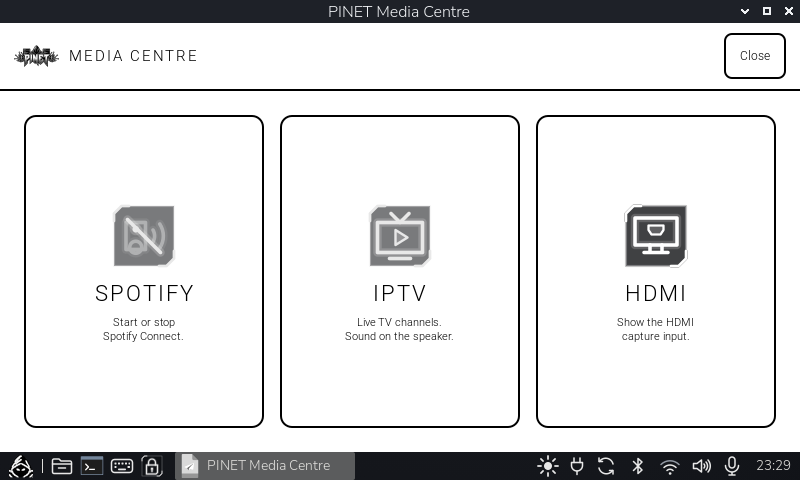
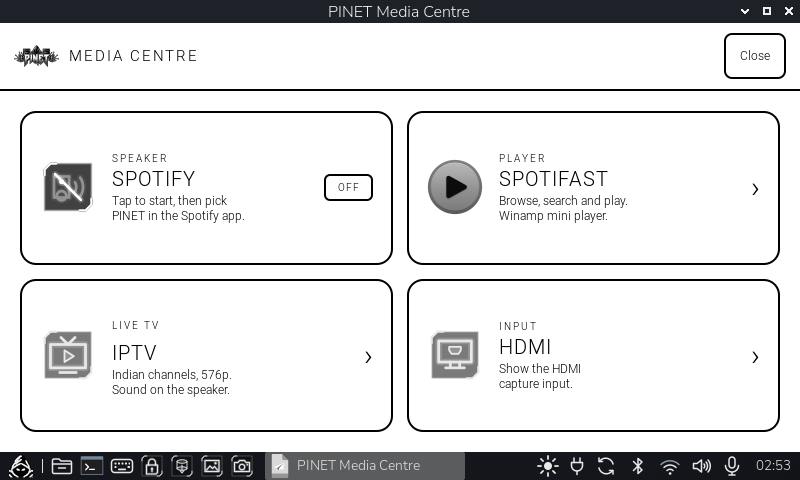
README: PINET Browser and Media Centre updates with screenshots
- Media Centre: four modes (Spotify Connect, Spotifast, IPTV, HDMI) in
  the 2x2 card chooser, plus Winamp Player for local audio.
- New PINET Browser section: touch controls, edge scrollbar, find,
  bookmarks, downloads, privacy, memory, and build.sh --deploy.
- Screenshots: new Media Centre chooser, Spotifast setup, Winamp Player,
  browser page/find/download/start page (no personal content).
- Feature table, repository layout, and test count (354) updated.

diff --git a/README.md b/README.md
@@ -12,7 +12,7 @@
 [![Platform](https://img.shields.io/badge/Platform-Raspberry%20Pi%203B-c51a4a.svg?style=flat-square)](https://www.raspberrypi.com/)
 [![OS](https://img.shields.io/badge/OS-Debian%2013%20trixie%20(64--bit)-a80030.svg?style=flat-square)](https://www.debian.org/)
 [![Python](https://img.shields.io/badge/Python-3.11+-3776ab.svg?style=flat-square)](https://www.python.org/)
-[![Tests](https://img.shields.io/badge/Tests-301%20passing-brightgreen.svg?style=flat-square)](tests/)
+[![Tests](https://img.shields.io/badge/Tests-354%20passing-brightgreen.svg?style=flat-square)](tests/)
 [![Displays](https://img.shields.io/badge/Displays-7%22%20DSI%20%2B%202.13%22%20e--Paper-blueviolet.svg?style=flat-square)](#hardware-architecture)
 [![Compositor](https://img.shields.io/badge/Compositor-labwc%20(Wayland)-informational.svg?style=flat-square)](#subsystems)
 [![Battery](https://img.shields.io/badge/Battery-8400%20mAh%20(2%C3%9721700)-f59e0b.svg?style=flat-square)](#power-management-and-battery-guard)
@@ -63,7 +63,8 @@ design write-up, see [`docs/Device Overview.md`](docs/Device%20Overview.md).
 | **Dual Displays** | 7" DSI Touchscreen (800×480) + 2.13" e-Paper (250×122) | Front GUI for desktop, kiosks & video; always-on rear panel for system telemetry & join QR. |
 | **Storage & Security** | LUKS2 (`aes-xts-plain64` 512-bit), Argon2id, GTK Layer-Shell | Boot PIN unlock pad (`pinet-luks-unlock`) with systemd `Type=notify`; seamless crossfade directly to photo frame. |
 | **Offline Hotspot** | Broadcom `wlan0` (`10.10.10.1`), hostapd, dnsmasq | Air-gapped Wi-Fi network triggering captive portal into `pinet-board` (message board + 1 GB file drop). |
-| **Media Centre** | Raspotify, VLC, UVC Video (`ffmpeg`/`ffplay`), PipeWire | Spotify Connect (Bluetooth @ 150% boost), live 576p Indian IPTV streams, and low-latency HDMI field monitor. |
+| **Media Centre** | Raspotify, Spotifast, Audacious, VLC, UVC Video (`ffmpeg`/`ffplay`), PipeWire | Spotify Connect (Bluetooth @ 150% boost), Spotifast player, Winamp-style local audio, live 576p Indian IPTV, and low-latency HDMI field monitor. |
+| **PINET Browser** | Rust, GTK3, WebKitGTK 4.1 | Default touch browser: slim always-visible scrollbar, find, bookmarks, download notices, on-screen keyboard; ~184 MB on a heavy page. |
 | **Wi-Fi Auditing** | `nmap`, `aircrack-ng`, `wifite`, `reaver`, `mdk4`, Vte terminal | Touch grid with embedded terminal pane; pentest mode flips `wlan1` to monitor mode & alerts e-ink. |
 | **Ethernet Share** | `eth0` (`10.42.0.1/24`), dnsmasq DHCP, nftables NAT | Routes `wlan1` internet uplink out through Ethernet with optional Pi-hole ad-blocking DNS. |
 | **Power & Battery** | Waveshare UPS HAT (D), INA219 (I²C `0x43`), 8400 mAh | Real-time voltage/current monitoring, calibrated OCV math, auto-shutdown guard, and load shedding. |
@@ -402,14 +403,26 @@ An official Raspberry Pi 7" capacitive touchscreen (800×480) driven by `labwc`
 <summary><b>Click to expand architecture & operational details</b></summary>
 <br />
 
-A unified touch interface (`media-centre`) providing three dedicated entertainment
-modes behind one desktop launcher:
+A unified touch interface (`media-centre`) providing four entertainment modes behind
+one desktop launcher, shown as a 2×2 grid of wide cards in the black-on-white PINET
+theme (the Spotify card carries a live ON/OFF pill):
 
 - **Spotify Connect**: Runs `raspotify` as a background receiver. Sound routes to
   connected Bluetooth speakers via PipeWire. If no speaker is currently connected,
   it attempts reconnection with paired devices (prioritizing the last-used speaker).
   Forces speaker volume to 150% so the source phone's volume slider controls the
   full audible range.
+- **Spotifast Player**: [Spotifast](https://github.com/crmne/spotifast), a native
+  Rust Spotify client (~100 MB RAM, OpenGL ES 2.0 on the Pi's VC4) with library,
+  search and a Winamp-style mini player. The card connects a Bluetooth speaker first,
+  then opens it. Install or update with `sudo pinet-install-spotifast` (latest
+  aarch64 release, verified against the release checksums). Needs Spotify Premium and
+  your own Spotify developer app Client ID; its taskbar and tray icon follow the PINET
+  panel style.
+- **Winamp Player (local audio)**: Every local audio type (110 MIME types and aliases)
+  opens in Audacious with its *Winamp Classic* interface at double size. A
+  `~/.local/bin/audacious` wrapper runs it through XWayland, which both the skin and
+  Audacious's GTK UI need under labwc.
 - **IPTV Player**: Plays live Indian broadcast streams in English, Bengali, and
   Hindi from `iptv-org`. Automatically filters playlists to 576p streams (avoiding
   Pi 3B hardware decoding bottlenecks) and pre-probes stream endpoints when the list
@@ -419,6 +432,41 @@ modes behind one desktop launcher:
   MacroSilicon MS2109) to convert the touchscreen into an external HDMI field monitor
   for laptops or cameras. Streams video through low-latency `ffmpeg` and `ffplay`
   pipelines with automatic recovery if the USB bus resets.
+
+</details>
+
+### PINET Browser
+
+<details>
+<summary><b>Click to expand architecture & operational details</b></summary>
+<br />
+
+`pinet-browser` is the device's default web browser (links, `xdg-open`, HTML files): a
+small Rust + GTK3 + WebKitGTK 4.1 app built for finger use on the 800×480 panel.
+
+- **Touch-first controls**: 44 px buttons, a clear close button, and a slim scrollbar
+  that is always visible at the screen edge (styled WebKit scrollbars are not overlay,
+  so they show without mouse movement).
+- **Fullscreen without a trap**: the header hides in fullscreen, so a floating exit
+  button appears (Esc/F11 work too).
+- **Address bar**: opens and closes the PINET on-screen keyboard (`pinet-kbd`). Enter,
+  Backspace and Ctrl+A are handled by key name, because virtual keyboards swap the
+  keymap at runtime and GTK's keycode-based bindings could silently miss them.
+- **Page tools**: find in page with match count, zoom with a tap-to-reset percentage,
+  and a start page with search, bookmarks and this session's history.
+- **Links and downloads**: `target=_blank` / `window.open` links open in the current
+  view; downloads go to `~/Downloads` with a "Saved to Downloads/…" notice.
+- **Privacy**: no cookies or history are written to disk; only bookmarks (when you tap
+  the star) are saved.
+- **Lightweight**: graphics acceleration *on demand* keeps a heavy page (Wikipedia)
+  around 184 MB, against ~283 MB with acceleration forced on.
+
+Build and deploy from a PC with Docker (cross-compiles for aarch64 and installs the
+binary, desktop entry, icon, and default-browser settings):
+
+```bash
+pinet-browser/build.sh --deploy pi@<pi-address>
+```
 
 </details>
 
@@ -514,9 +562,17 @@ Driven by `labwc` (Wayland compositor) with `wf-panel-pi` under a custom dark th
 
 | | |
 |---|---|
-| <a href="docs/images/media-centre.png" target="_blank"><img src="docs/images/media-centre.png" alt="Media Centre Mode Selector" width="100%" /></a><br>**Media Centre Home.** Unified mode launcher for Spotify Connect, IPTV, and HDMI input with live status indicator. | <a href="docs/images/spotify-confirm.png" target="_blank"><img src="docs/images/spotify-confirm.png" alt="Spotify Connect Launch Dialog" width="100%" /></a><br>**Spotify Connect Launcher.** Confirmation prompt before spawning raspotify receiver and auto-reconnecting Bluetooth speaker. |
+| <a href="docs/images/media-centre.png" target="_blank"><img src="docs/images/media-centre.png" alt="Media Centre Mode Selector" width="100%" /></a><br>**Media Centre Home.** 2×2 card chooser for Spotify Connect (live ON/OFF pill), Spotifast, IPTV and HDMI input. | <a href="docs/images/spotify-confirm.png" target="_blank"><img src="docs/images/spotify-confirm.png" alt="Spotify Connect Launch Dialog" width="100%" /></a><br>**Spotify Connect Launcher.** Confirmation prompt before spawning raspotify receiver and auto-reconnecting Bluetooth speaker. |
+| <a href="docs/images/spotifast.png" target="_blank"><img src="docs/images/spotifast.png" alt="Spotifast Spotify Client" width="100%" /></a><br>**Spotifast Player.** Lightweight native Spotify client (~100 MB RAM) with library, search and a Winamp-style mini player; first run asks for your own Spotify app Client ID. | <a href="docs/images/winamp-player.png" target="_blank"><img src="docs/images/winamp-player.png" alt="Winamp Player for Local Audio" width="100%" /></a><br>**Winamp Player.** Local audio files open in Audacious's Winamp Classic interface at double size, playing to the Bluetooth speaker. |
 | <a href="docs/images/media-centre-iptv.png" target="_blank"><img src="docs/images/media-centre-iptv.png" alt="IPTV Channel Guide" width="100%" /></a><br>**IPTV Channel Guide.** Filtered Indian broadcasts in English, Bengali, and Hindi, pre-probed for live HLS streams. | <a href="docs/images/media-centre-video.png" target="_blank"><img src="docs/images/media-centre-video.png" alt="Full-Screen IPTV Playback" width="100%" /></a><br>**Full-Screen Playback.** Stream playback with auto-hiding corner touch controls (Back, Play/Pause, Close). |
 | <a href="docs/images/hdmi-monitor.png" target="_blank"><img src="docs/images/hdmi-monitor.png" alt="HDMI Field Monitor" width="100%" /></a><br>**HDMI Field Monitor.** Full-screen low-latency preview feed from an external laptop or camera via USB UVC capture dongle. | **HDMI Capture Pipeline**<br>Receives 1080p/720p 60Hz HDMI video via MacroSilicon MS2109 dongle, rendered with sub-120ms latency through an optimized `ffplay` pipeline with automatic USB bus recovery. |
+
+#### PINET Browser
+
+| | |
+|---|---|
+| <a href="docs/images/browser-home.png" target="_blank"><img src="docs/images/browser-home.png" alt="PINET Browser Start Page" width="100%" /></a><br>**Start Page.** Search, bookmarks and this session's history, with 44 px touch controls and a single close button. | <a href="docs/images/browser-page.png" target="_blank"><img src="docs/images/browser-page.png" alt="PINET Browser Page View" width="100%" /></a><br>**Browsing.** Slim, always-visible scrollbar at the screen edge; zoom level shown and tap-to-reset. |
+| <a href="docs/images/browser-find.png" target="_blank"><img src="docs/images/browser-find.png" alt="PINET Browser Find in Page" width="100%" /></a><br>**Find in Page.** Live match count with previous/next buttons. | <a href="docs/images/browser-download.png" target="_blank"><img src="docs/images/browser-download.png" alt="PINET Browser Download Notice" width="100%" /></a><br>**Downloads.** Files land in `~/Downloads` with a "Saved to Downloads/…" notice. |
 
 #### Hotspot, Captive Portal & Network Auditing
 
@@ -796,12 +852,13 @@ To report security issues, refer to [SECURITY.md](SECURITY.md).
 ├── eink-dashboard/      # E-ink status dashboard (SPI driver, carousel src, systemd units)
 ├── etc/                 # System configuration: hostapd, dnsmasq, nftables, NetworkManager
 ├── pinet-board/         # Captive portal Flask application (message board and file drop)
+├── pinet-browser/       # Rust/WebKitGTK touch browser + Docker cross-build (build.sh)
 ├── plymouth/            # PINET custom boot splash theme
 ├── scripts/
 │   ├── bin/             # /usr/local/bin: Touchscreen apps, media centre, kali launcher
 │   └── sbin/            # /usr/local/sbin: Power manager, ups guard, pentest scripts
 ├── systemd/             # Systemd service units, timers, and drop-in configurations
-├── tests/               # Standalone unit test suite (301 tests, Python standard library)
+├── tests/               # Standalone unit test suite (354 tests, Python standard library)
 └── tools/               # Developer utilities: icon generators, code-graph refreshers
 ```
 
